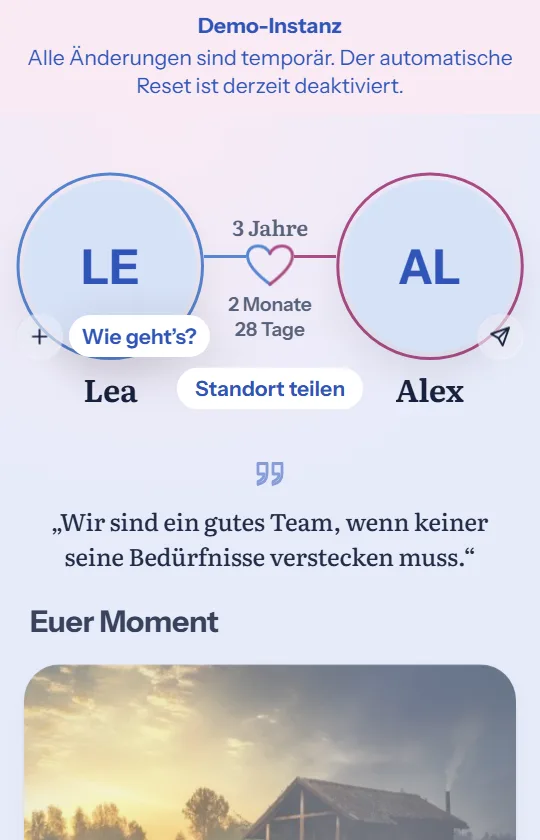
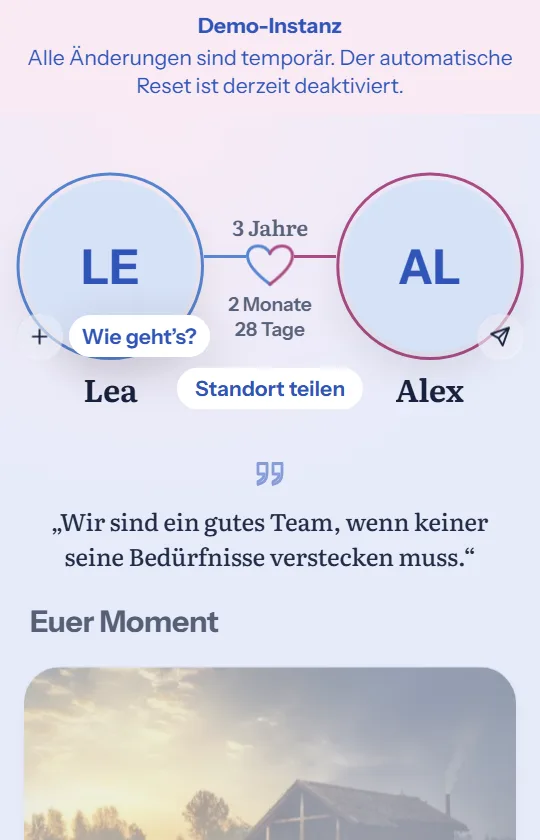
test(web): cover the daily invitation on the Wir page
Refresh the visual evidence on the merged revision.

Changed region(s): [[0.0296, 0.7119, 0.9778, 1.0]]

diff --git a/web/src/components/TodayPage.test.tsx b/web/src/components/TodayPage.test.tsx
@@ -341,7 +341,7 @@ describe('TodayPage', () => {
     expect(html).not.toContain('today-section-vibe');
   });
 
-  it('shows the pre-check-in prompt and a partner lock only with Mutual Reveal', () => {
+  it('offers the empty own day and a partner lock only with Mutual Reveal', () => {
     const html = renderTodayPage(
       {
         space: {
@@ -364,7 +364,10 @@ describe('TodayPage', () => {
       },
     );
 
-    expect(html).toContain('Wie geht’s?');
+    // The daily invitation starts from a fresh read on screen, never from the
+    // first render (WirDailyCheckIn.test.tsx covers it).
+    expect(html).not.toContain('wir-stage-prompt');
+    expect(html).toContain('wir-stage-gesture-own');
     expect(html).toContain('data-state="hidden"');
     expect(html).toContain('Dein Tag: noch nichts geteilt. Teilen');
     expect(html).toContain(
